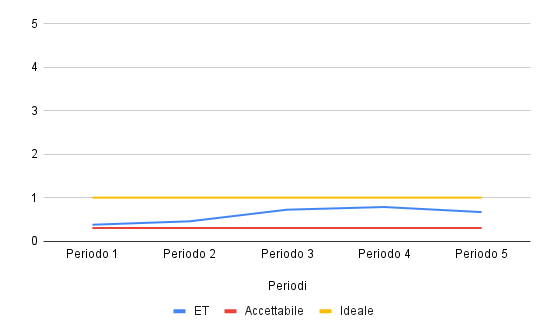
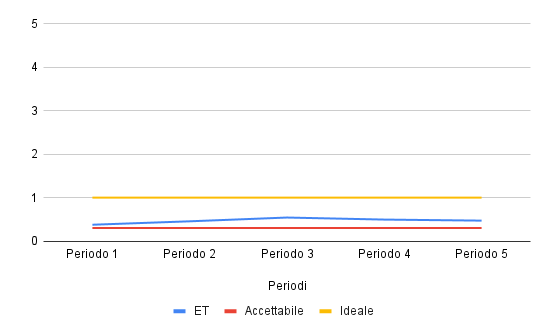
Correzione metrica efficienza temporale

Changed region(s): [[0.3729, 0.597, 0.9013, 0.6866]]

diff --git a/RTB/Piano_di_Qualifica.tex b/RTB/Piano_di_Qualifica.tex
@@ -319,7 +319,7 @@ Serve per garantire che il prodotto soddisfi i requisiti di tempi e costi defini
   \hline
   MPC01 & Estimated at completion (EAC) & \textpm5\% rispetto al (BAC)\(_G\) & Budget at completion (BAC)\(_G\)\\
   \hline
-  MPC02 & Estimate to complete (ETC) & $\geq$ 0\% & $\leq$ EAC\(_G\) \\
+  MPC02 & Estimate to complete (ETC) & $\geq$ 0 & $\leq$ EAC\(_G\) \\
   \hline
   MPC03 & Actual cost (AC) & $\geq$ 0 & $\leq$ EAC\(_G\) \\
   \hline
@@ -612,9 +612,10 @@ per la metrica. Questo indica che il progetto è sufficientemente in linea con l
   \label{fig:EV-PVchart}
 \end{figure}
 
-\textbf{RTB}: Il grafico mostra la curva del valore guadagnato (Earned Value), che deve essere minore o uguale di EAC; e la curva del valore pianificato (Planned Value), 
-che deve essere inferiore o uguale a BAC. Come si può notare osservando la figura le due curve si sovrappongono, questo indica che il lavoro effettivamente svolto è 
-conforme alla pianificazione. Questa sovrapposizione dimostra un avanzamento positivo rispetto alla pianificazione del progetto.
+\textbf{RTB}: Il grafico mostra la curva del valore guadagnato (Earned Value), e la curva del valore pianificato (Planned Value). Come si può notare osservando la 
+figura le due curve sono molto vicine, questo indica che il lavoro effettivamente svolto è conforme alla pianificazione; e nello specifico quella dell'EV è sempre 
+leggermente superiore a quella del PV. Ciò indica che il progetto sta producendo un valore maggiore rispetto a quanto pianificato, e quindi che il lavoro svolto 
+è leggermente al di sopra delle aspettative.
 
 
 \subsubsection{MPC03 - Actual Cost (AC) \& MPC02 - Estimate to Complete (ETC)}
@@ -724,8 +725,7 @@ sono state effettivamente usate per la produzione di materiale (software o di al
 Le ore produttive sono state accuratamente rendicontate per l'intera durata del progetto, mentre quelle totali (che includono anche le produttive), sono state misurate in
 maniera più precisa possibile, ma senza pretese di assoluta esattezza, per via della natura di queste ultime.\\
 Dal grafico emerge che la ET si mantiene, per l'intera durata delle prime sei iterazioni del progetto, al di sopra del valore minimo accettabile (pari a 0.3), ma al di 
-sotto del valore ideale (pari o superiore a 1.0). In particolare si nota un leggero aumento globale del valore della metrica dovuto all'incrementata efficienza del
-team nello svolgimento delle attività di progetto.\\
+sotto del valore ideale (pari o superiore a 1.0).\\
 
 
 \subsection{Qualità di processo - Documentazione}
@@ -744,8 +744,11 @@ Sebbene il valore ideale non sia mai rispettato nel corso dei primi 5 sprint per
 presentato dei prevedibili aumenti in fasi di grande produzione di documentazione. L'obiettivo del gruppo è comunque stato quello di consegnare al termine del sesto periodo
 dei documenti privi di errori ortografici, e ciò è stato raggiunto, dato che almeno da parte nostra non ne sono stati individuati.\\
 
+
 \subsubsection{MPC01 - Indice Gulpease}
-% Inserire grafico
+
+
+
 \textbf{RTB}: Inizialmente, l'indice Gulpease superava già il limite accettabile. Tuttavia, con il tempo, il team ha imparato a rispettarlo e a mantenerlo costante, 
 migliorandone di poco a poco il punteggio. Questo è stato ottenuto rendendo tutti i documenti più leggibili, limitando l'uso di termini tecnici non necessari, 
 soprattutto nei documenti più specifici o tecnici.
